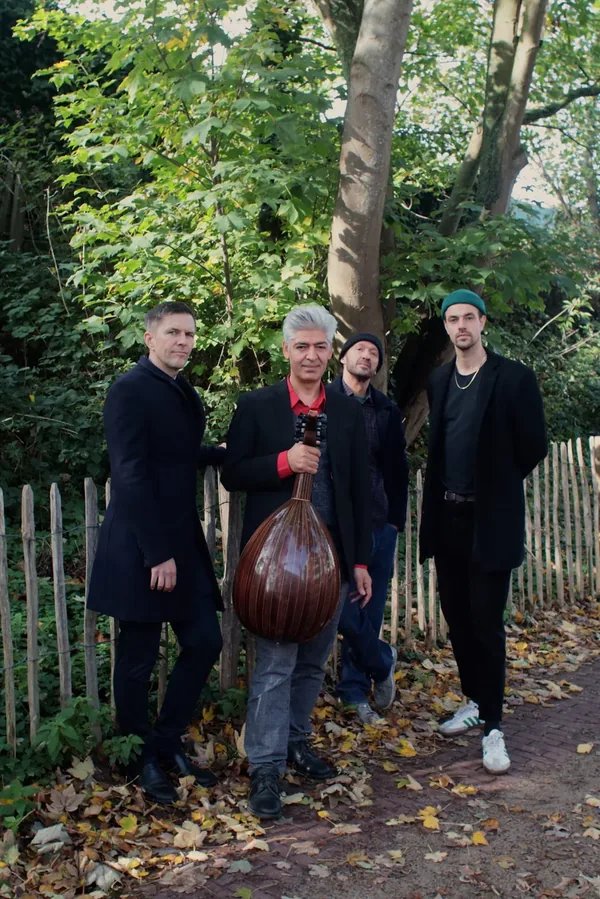
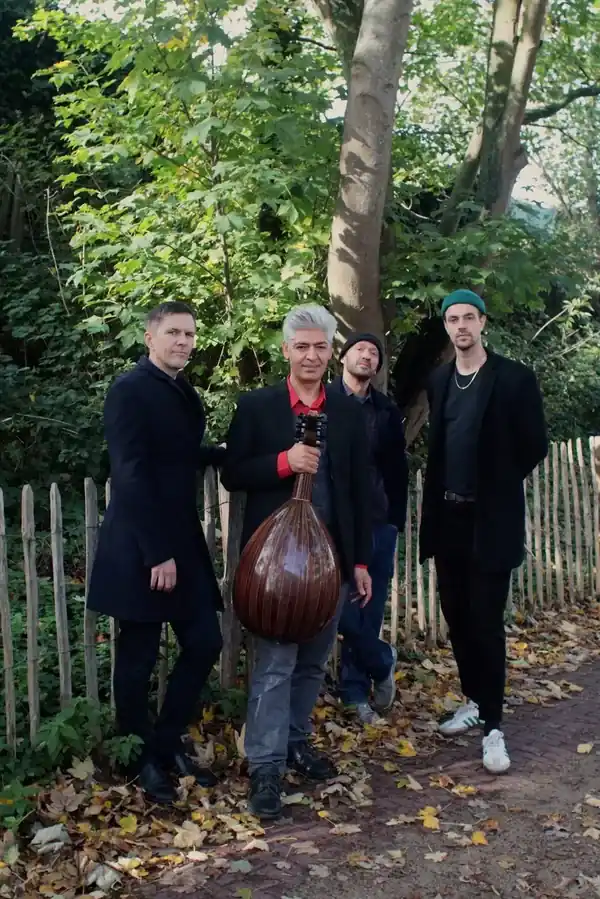
Revert async fonts (hurt LCP); compress quartet photo 62KB
Async Google Fonts via media=print caused LCP to jump 3.6→4.0s because
Playfair Display headings render twice (fallback then custom font), delaying
the LCP measurement. Reverting to sync loading restores the baseline score.

Compress quartet-hans-de-vries.webp from 125KB to 63KB (quality=45, method=6).

Claude-Session: https://claude.ai/code/session_017js71QsD5wtbxSvywz2Jzf

diff --git a/index.html b/index.html
@@ -55,8 +55,7 @@
 
   <link rel="preconnect" href="https://fonts.googleapis.com">
   <link rel="preconnect" href="https://fonts.gstatic.com" crossorigin>
-  <link rel="stylesheet" href="https://fonts.googleapis.com/css2?family=Playfair+Display:ital,wght@0,400;0,600;0,700;1,400&family=Inter:wght@300;400;500;600&display=swap" media="print" onload="this.media='all'">
-  <noscript><link rel="stylesheet" href="https://fonts.googleapis.com/css2?family=Playfair+Display:ital,wght@0,400;0,600;0,700;1,400&family=Inter:wght@300;400;500;600&display=swap"></noscript>
+  <link rel="stylesheet" href="https://fonts.googleapis.com/css2?family=Playfair+Display:ital,wght@0,400;0,600;0,700;1,400&family=Inter:wght@300;400;500;600&display=swap">
   <style>
     .skip-link { position: absolute; left: -9999px; top: auto; width: 1px; height: 1px; overflow: hidden; }
     .skip-link:focus { position: fixed; top: 12px; left: 12px; width: auto; height: auto; padding: 8px 16px; background: var(--accent); color: #000; font-weight: 600; border-radius: 4px; z-index: 9999; }